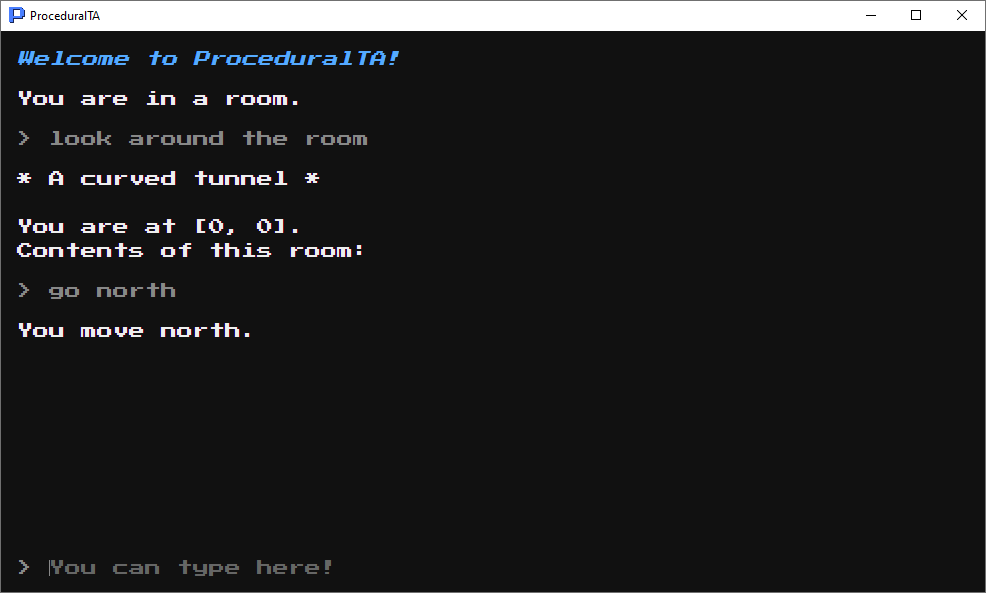
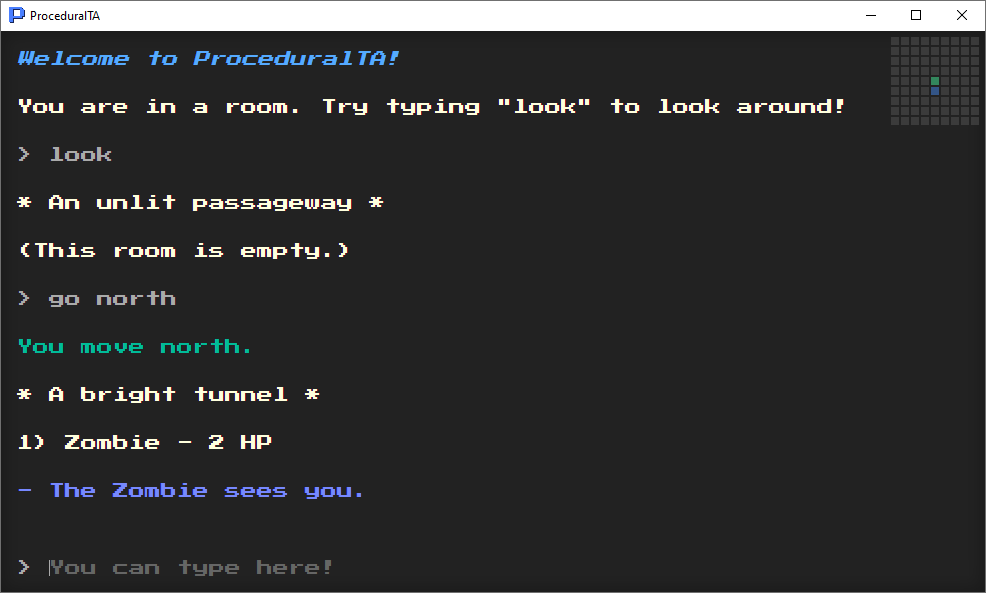
Better logging, bugfix, comments, persistent questions

diff --git a/app/js/input-handler.js b/app/js/input-handler.js
@@ -2,6 +2,8 @@
 
 'use strict';
 
+let question = '';
+
 /**
  * Handles user input
  * @param {string} input The user input
@@ -18,12 +20,14 @@ function handleInput(input) {
         return;
     }
 
+    /* go */
     inputArray = inputArray.filter(word => !'go,move,run,sprint,walk,dash,slide'.split(',').includes(word));
     if (!inputArray.length) {
         logMessage('Where do you want to go?', logTypes.GAME);
         return;
     }
 
+    /* help */
     if (command('help,what,?', inputArray, () => {
         logMessage(`Hello! You are playing a text adventure. You can type commands like "attack zombie" to do things.
             Here are some useful commands to help you out:
@@ -36,74 +40,96 @@ function handleInput(input) {
             There are lots of other things you can do, try to experiment!`, logTypes.GAME);
     })) return;
 
+    /* info */
     if (command('info,me,myself,i,player,user,information,hp,stats,health', inputArray, () => {
         logMessage(`You currently have ${player.hp} HP.`, logTypes.GAME);
     })) return;
 
+    /* north */
     if (command('north,n,northward,northern,up,upward,upwards', inputArray, () => {
-        logMessage('You move north.', logTypes.GAME);
+        logMessage('You move north.', logTypes.MOVEMENT);
         player.y++;
     })) return;
 
+    /* south */
     if (command('south,s,southward,southern,down,downward,downwards', inputArray, () => {
-        logMessage('You move south.', logTypes.GAME);
+        logMessage('You move south.', logTypes.MOVEMENT);
         player.y--;
     })) return;
 
+    /* east */
     if (command('east,e,eastward,eastern,right', inputArray, () => {
-        logMessage('You move east.', logTypes.GAME);
+        logMessage('You move east.', logTypes.MOVEMENT);
         player.x++;
     })) return;
 
+    /* west */
     if (command('west,w,westward,western,left', inputArray, () => {
-        logMessage('You move west.', logTypes.GAME);
+        logMessage('You move west.', logTypes.MOVEMENT);
         player.x--;
     })) return;
 
     const lookAliases = 'look,l,search,inspect,view,see,observe';
-    const lookAtAliases = 'at,around,towards,for';
+    const lookAtAliases = 'at,towards,for';
 
+    /* look */
     if (command(lookAliases, inputArray, () => {
         logMessage(room.getInfo(player), logTypes.GAME);
     })) return;
 
+    /* look at */
     if (command(`${lookAliases} ${lookAtAliases}`, inputArray, () => {
         logMessage('What do you want to look at?', logTypes.GAME);
         logMessage('(Try: look at thing)', logTypes.ALERT);
+        question = 'look';
     })) return;
 
+    /* look [#] */
     if (command(`${lookAliases} #`, inputArray, args => {
         logMessage(room.getMonsterInfo(args[0]), logTypes.GAME);
     })) return;
 
+    /* look at [#] */
     if (command(`${lookAliases} ${lookAtAliases} #`, inputArray, args => {
         logMessage(room.getMonsterInfo(args[0]), logTypes.GAME);
     })) return;
 
     const attackAliases = 'attack,h,hit,punch,kick,whack,yeet,hurt,damage,smack,kill,murder,slaughter,slap,bite,shoot,stab,pwn,destroy,obliterate';
 
+    /* attack */
     if (command(attackAliases, inputArray, () => {
         logMessage('What do you want to attack?', logTypes.GAME);
         logMessage('(Try: attack thing)', logTypes.ALERT);
+        question = 'attack';
     })) return;
 
-    console.log(`${attackAliases} #`);
-
+    /* attack [#] */
     if (command(`${attackAliases} #`, inputArray, args => {
         logMessage(room.playerAttacksMonster(args[0], player), logTypes.COMBAT);
     })) return;
 
+    /* credits */
     if (command('credit,credits,proceduralta,julian,author,about', inputArray, () => {
         logMessage(`ProceduralTA is an open source text adventure.
         https://github.com/jlachniet/ProceduralTA`, logTypes.GAME);
     })) return;
 
-    const species = inputArray.join(' ');
-    const monster = room.getMonster(species);
+    const inputJoined = inputArray.join(' ');
+    const monster = room.getMonster(inputJoined);
 
-    if (monster) {
-        logMessage(room.getMonsterInfo(species), logTypes.GAME);
+    /* [#] */
+
+    if (question === 'look') {
+        logMessage(room.getMonsterInfo(inputJoined), logTypes.GAME);
+    } else if (question === 'attack') {
+        logMessage(room.playerAttacksMonster(inputJoined, player), logTypes.COMBAT);
     } else {
-        logMessage('Unknown command.', logTypes.ALERT);
+        if (monster) {
+            logMessage(room.getMonsterInfo(inputJoined), logTypes.GAME);
+        } else {
+            logMessage('Unknown command.', logTypes.ALERT);
+        }
     }
+
+    question = '';
 }

diff --git a/app/css/styles.css b/app/css/styles.css
@@ -43,7 +43,7 @@ body, #input-box {
     display: none;
 }
 
-.msg-alert, .msg-combat, .msg-game, .msg-player, .msg-system {
+.msg-alert, .msg-combat, .msg-game, .msg-movement, .msg-player, .msg-system {
     margin-bottom: 24px
 }
 
@@ -65,6 +65,10 @@ body, #input-box {
 
 .msg-game {
     color: #ffd
+}
+
+.msg-movement {
+    color: #0b9;
 }
 
 .msg-system {

diff --git a/app/js/room.js b/app/js/room.js
@@ -123,7 +123,7 @@ class Room {
      */
     addMonsterChance(species, minDistance, maxChance) {
         if (getRandInt(0, this.distance) > minDistance - 1) {
-            if (Math.random() > maxChance) {
+            if (Math.random() < maxChance) {
                 this.addMonster(species);
             }
         }

diff --git a/app/js/game.js b/app/js/game.js
@@ -11,6 +11,7 @@ const logTypes = {
     ALERT: 'msg-alert',
     COMBAT: 'msg-combat',
     GAME: 'msg-game',
+    MOVEMENT: 'msg-movement',
     PLAYER: 'msg-player',
     SYSTEM: 'msg-system'
 };
